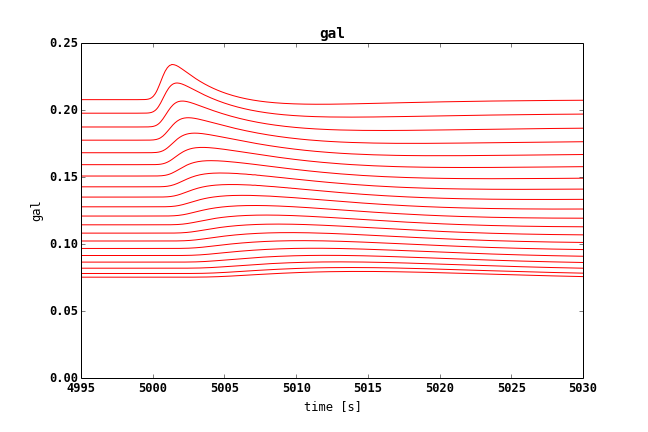
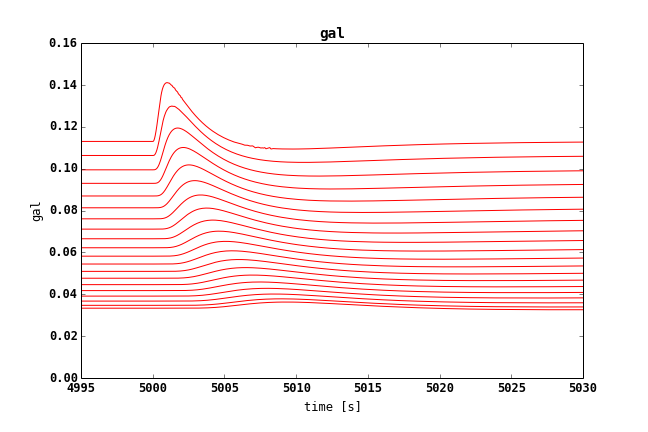
Working on gal fit with GEC

Changed region(s): [[0.0617, 0.1505, 0.8951, 0.7824], [0.0617, 0.1806, 0.1235, 0.2106], [0.0617, 0.0903, 0.1235, 0.1204]]

diff --git a/python/simulator/simulator/roadrunner_tools/galactose_dilution.py b/python/simulator/simulator/roadrunner_tools/galactose_dilution.py
@@ -57,9 +57,19 @@ r.selections = sel
 ######################################################################### 
 # set the boundary concentrations
 # PP__gal = (0.28, 5, 12.5, 17.5) # [mM]
+
+s_fac = 100
+
 p_list = [
-   { "[PP__gal]" : 0.28, "flow_sin" : 1.5*0.5*270E-6, 't_duration':0.5, 'y_dis': 1.2E-6, 
-    "peak_area": 1.0},
+   { "[PP__gal]" : 0.28, 
+    "flow_sin" : 0.5*270E-6, 
+    "y_dis" : 2.4E-6,
+    "f_cyto" : 0.5,
+    "scale_f" : 0.85/1.68/s_fac,
+    "GALK_PA" : 0.02*s_fac*2,
+    "H2OT_f": 8.0,
+    "GLUT2_f" : 6*s_fac,         
+    },
 ]
 
 inits = {}
@@ -102,6 +112,7 @@ rp.plot_dilution_data(exp_data)
 # dp.dilution_plot_by_name(s_list, r.selections, name='[D10__alb]', xlim=[T_PEAK-10, T_PEAK+20])
 
 dp.dilution_plot_by_name(s_list, r.selections, name='gal')
+dp.dilution_plot_by_name(s_list, r.selections, name='galM')
 dp.dilution_plot_by_name(s_list, r.selections, name='gal1pM')
 dp.dilution_plot_by_name(s_list, r.selections, name='udpgalM')
 dp.dilution_plot_by_name(s_list, r.selections, name='udpglcM')

diff --git a/python/simulator/simulator/roadrunner_tools/galactose_challenge.py b/python/simulator/simulator/roadrunner_tools/galactose_challenge.py
@@ -53,10 +53,12 @@ p_list = [
    { "gal_challenge" : 8, 
      "flow_sin" : flow_sin,
      "y_dis" : 2.4E-6,
-     "f_cyto" : 0.5,
-     "scale_f" : 0.85,           
-     "H2OT_f": 5.0,
-     "GLUT2_f" : 7, },
+              "f_cyto" : 0.5,
+              "scale_f" : 0.85*0.5 /4,
+              "GALK_PA" : 0.02*4,
+              "H2OT_f": 8.0,
+              "GLUT2_f" : 12*4,
+    },
 ]
 
 inits = {}
@@ -85,7 +87,7 @@ print Q
 
 p.plot(test['time'], R)
 p.plot(test['time'], GEC)
-
+GEC
 
 
 #########################################################################    

diff --git a/python/simulator/simulator/roadrunner_tools/galactose_dilution_flux.py b/python/simulator/simulator/roadrunner_tools/galactose_dilution_flux.py
@@ -62,11 +62,10 @@ for gal in [0.28, 12.5, 17.5]:
               "flow_sin" : f,    
               "y_dis" : 2.4E-6,
               "f_cyto" : 0.5,
-              "scale_f" : 0.85/1.68,           
-              "H2OT_f": 5.0,
-              "GLUT2_f" : 11, 
-              # "y_peak" : 0.5,
-              # "GALK_PA" :  0.02,
+              "scale_f" : 0.425,
+              # "GALK_PA" : 0.02,
+              "H2OT_f": 8.0,
+              "GLUT2_f" : 14, 
               }
         p_list.append(d)
     gal_p_list.append(p_list)
